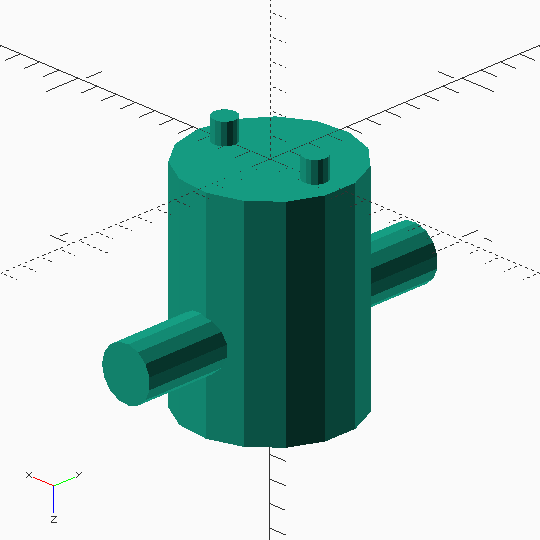
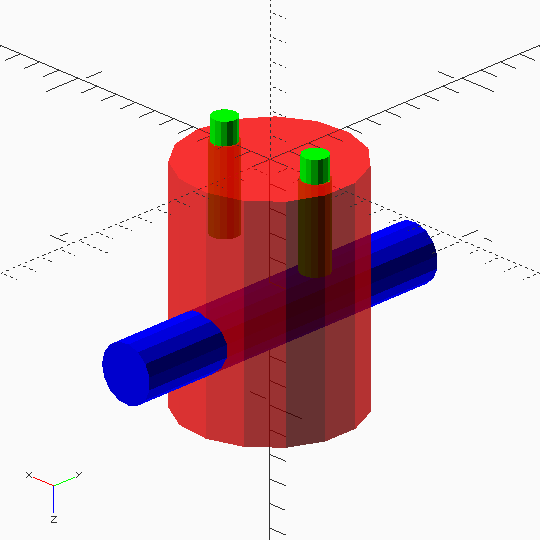
color support

Changed region(s): [[0.1778, 0.2074, 0.8296, 0.8296]]

diff --git a/examples/pin_spanner.py b/examples/pin_spanner.py
@@ -16,7 +16,7 @@ The source file can be explored interactively, or rendered to an image with:
         --colorscheme Nature \
         --view axes,scales \
         --projection o \
-        --render \
+        --preview \
         -o pin_spanner.png \
         pin_spanner.scad
 """
@@ -27,16 +27,35 @@ import solid.utils
 from sccm.components.component import Component
 from sccm.components.cylinder import Cylinder
 
-# Parent component for the whole thing
-pin_spanner = Component()
+# The main 'body' of the spanner, to which the other things attach; this is
+# made out of a stubby cylinder of aluminum
+spanner_body = Cylinder(
+    od=3 / 4,
+    length=1.0,
+    # We want to be able to see the other parts embedded inside the body, so it
+    # should be transparent
+    color=(1.0, 0.0, 0.0, 0.8),
+)
 
-# The main 'body' of the spanner, to which the other things attach
-spanner_body = Cylinder(od=3 / 4, length=1.0, parent=pin_spanner)
+# The handle of the spanner, for which we'll just use a 1/4" dowel pin
+handle = Cylinder(
+    od=1 / 4,
+    length=1.5,
+    # Cylinders are created with their height axis along Z; since we need to
+    # rotate the handle so it's perpendicular to the handle, it's most
+    # convenient to "center" it, so its center point is at the origin, rather
+    # than the default, which puts its bottom at the origin
+    center=True,
+    # We want the handle to be fully opaque, so we can omit the optional alpha
+    color=(0.0, 0.0, 1.0),
+)
 
-# The handle of the spanner
-handle = Cylinder(od=1 / 4, length=1.5, center=True, parent=pin_spanner)
+# We need to position the handle inside the body; first, rotate it about X, so
+# it's perpendicular to the handle
 handle_rotation = solid.rotate([90.0, 0.0, 0.0])
 handle.transform(handle_rotation)
+# Then, we need to move it, so it's in the same orientation but sitting at the
+# top of the body
 handle.transform(
     # The center anchor has to be transformed first, in the same manner as the
     # whole handle was, so the alignment works correctly - otherwise, the primary
@@ -44,6 +63,7 @@ handle.transform(
     # cylinder, would be aligned with that of the body's top anchor (ditto)
     handle.center_anchor.transform(handle_rotation).align(spanner_body.top_anchor)
 )
+# From there, we can move it down 3/8", so it's captured inside the body
 handle.transform(solid.utils.down(3 / 8))
 # Subtract the space occupied by the handle from the body
 spanner_body.compose(solid.difference(), handle, make_children=False)
@@ -52,14 +72,22 @@ spanner_body.compose(solid.difference(), handle, make_children=False)
 # designed to turn) is made from a 1/8" pin, but the part that engages in the
 # hole must be turned down to fit the hole's size
 protruding_pin = Cylinder(od=0.110, length=0.1)
+# The "inside" pin is the unmodified portion that sits inside the spanner body
 inside_pin = Cylinder(od=1 / 8, length=3 / 8)
-
-inside_pin.transform(inside_pin.bottom_anchor.align(spanner_body.bottom_anchor))
+# Then, we need to align the two portions of the pin model, such that
 protruding_pin.transform(protruding_pin.top_anchor.align(inside_pin.bottom_anchor))
-
 
 # There are two pins in the nut, so we make an assembly & then clone it
 pin_assembly_a = protruding_pin.compose(solid.union(), inside_pin, inplace=False)
+# Then, move the whole assembly such that the bottom of the inside pin is aligned
+# with the bottom of the spanner body. Note that while the two portions of the pin
+# have been composed into a single component, the individual portions exist, and
+# we still have access to them.
+pin_assembly_a.transform(inside_pin.bottom_anchor.align(spanner_body.bottom_anchor))
+# Not-in-place composition produces a new component (here, the pin assembly),
+# so we have to assign the desired color to it after instantiation; it will be
+# assigned to the other pin assembly during the copy operation by default
+pin_assembly_a.color = (0.0, 1.0, 0.0)
 pin_assembly_b = pin_assembly_a.copy()
 
 # The holes in the nut are .472" (12mm) apart, so the pins are located half that
@@ -70,7 +98,20 @@ pin_assemblies = [pin_assembly_a, pin_assembly_b]
 
 # Subtract the space occupied by the pins from the body
 spanner_body.compose(solid.difference(), pin_assemblies, make_children=False)
-pin_spanner.add_child(pin_assemblies)
+
+# Now, we need a parent component for the whole spanner, so we can render it.
+pin_spanner = Component(
+    # Ordering is actually significant here because of a quirk in `OpenSCAD`: if
+    # we want an object "inside" another, transparent object to be visible, it
+    # has to be drawn first. Because rendering a pure container (a component that
+    # only contains other components, and doesn't define a body of its own)
+    # automatically creates a `union` of the contained child components, with the
+    # children listed in order of their appearance in the container's `children`
+    # list, the order we specify these children here directly maps to the order
+    # with which they'll be drawn. Because the spanner body is transparent and
+    # we want to see the driving pins & handle through it, it has to be last.
+    children=[*pin_assemblies, handle, spanner_body]
+)
 
 if __name__ == "__main__":
     pin_spanner.compile("pin_spanner.scad", 15)

diff --git a/sccm/components/component.py b/sccm/components/component.py
@@ -9,6 +9,12 @@ from sccm import affinables
 Composition = typing.Union[solid.union, solid.difference, solid.intersection]
 CompositionAndOperands = typing.Tuple[Composition, typing.List["Component"]]
 
+# Colors are specified as RBG and an optional alpha channel; each channel
+# should be a value in [0.0, 1.0].
+Color = typing.Union[
+    typing.Tuple[float, float, float], typing.Tuple[float, float, float, float]
+]
+
 
 class ReparentException(Exception):
     """Raised when we attempt to assign a parent to a child that already has one"""
@@ -42,6 +48,7 @@ class Component(affinables.HistoricalTransformable):
         parent: "Component" = None,
         children: typing.List["Component"] = None,
         compositions: typing.List[CompositionAndOperands] = None,
+        color: Color = None,
     ) -> None:
         """
         Args:
@@ -50,6 +57,8 @@ class Component(affinables.HistoricalTransformable):
             children: The component's children, if any; this component will be
                 set as the children's parent
             compositions: The component's compositions, if any
+            color: The color to use for this component, if any; this will override
+                any coloring on children.
         """
         # The transformations that affect this component & its children, but not
         # its parents
@@ -68,6 +77,8 @@ class Component(affinables.HistoricalTransformable):
         self.compositions: typing.List[CompositionAndOperands] = []
         if compositions:
             self.compositions = compositions
+
+        self.color: typing.Optional[Color] = color
 
     def add_child(
         self, children: typing.Union["Component", typing.List["Component"]]
@@ -213,12 +224,14 @@ class Component(affinables.HistoricalTransformable):
         """
         return self.__class__()
 
-    def copy(self, isolate: bool = False) -> "Component":
+    def copy(self, isolate: bool = False, with_color: bool = True) -> "Component":
         """Copy this component
 
         Args:
             isolate: If true, the copied component will not retain the parent
                 relationships of the original
+            with_color: Should the copied component have the original's color,
+                if any?
         """
         copy = self._copy
 
@@ -268,6 +281,9 @@ class Component(affinables.HistoricalTransformable):
         # Copies should have identical direct transformations
         for transformation in self.direct_transformations:
             copy.transform(transformation)
+
+        if with_color:
+            copy.color = self.color
 
         return copy
 
@@ -372,7 +388,7 @@ class Component(affinables.HistoricalTransformable):
 
     @property
     def body(self) -> solid.OpenSCADObject:
-        """The fully transformed object that embodies this component
+        """The fully transformed, composed, and colored embodiment of this component
 
         Raises:
             DisembodiedComponent:
@@ -387,7 +403,7 @@ class Component(affinables.HistoricalTransformable):
         )
 
         if self._body:
-            return body_reduction(self.compositions, self._body)
+            composed_body = body_reduction(self.compositions, self._body)
         else:
             if not self.compositions:
                 raise DisembodiedComponent(self)
@@ -397,12 +413,17 @@ class Component(affinables.HistoricalTransformable):
             # composition & its operands - otherwise, there would be nothing at
             # the "root" of the compositions
             first_composition, first_operands = self.compositions[0]
-            return body_reduction(
+            composed_body = body_reduction(
                 self.compositions[1:],
                 self._apply_composition(
                     first_composition, [operand.body for operand in first_operands]
                 ),
             )
+
+        if self.color:
+            return solid.color(self.color)(composed_body)
+        else:
+            return composed_body
 
     def scad_source(self, fn: int = None) -> str:  # pragma: no cover
         """The OpenSCAD source code that this component corresponds to"""

diff --git a/tests/components/test_component.py b/tests/components/test_component.py
@@ -32,10 +32,10 @@ class MockEmbodiedComponent(component.Component):
     def _copy(self) -> "MockEmbodiedComponent":
         return self.__class__(self.size)
 
-    def __init__(self, size: float = 1.0):
+    def __init__(self, size: float = 1.0, color: component.Color = None):
         self.size = size
 
-        super().__init__()
+        super().__init__(color=color)
 
     @component.Component.transformed_property
     def _body(self) -> solid.OpenSCADObject:
@@ -470,7 +470,7 @@ class TestComponent(unittest.TestCase):
             msg="Non-isolated copied child operands should be copied and the copies made operands of the copy",
         )
 
-    def test_copy_composition_isolated_non_child_operandS(self) -> None:
+    def test_copy_composition_isolated_non_child_operands(self) -> None:
         composer_1 = MockEmbodiedComponent(2.0)
         composer_2 = MockEmbodiedComponent(3.0)
 
@@ -485,4 +485,46 @@ class TestComponent(unittest.TestCase):
                 for operand in copy.composed_components
             ),
             msg="Isolated copied non-child operands should be copied and the copies made operands of the copy",
+        )
+
+    def test_copy_with_color(self) -> None:
+        test_component = component.Component(color=(1.0, 1.0, 1.0, 1.0))
+
+        self.assertEqual(
+            test_component.color,
+            test_component.copy(with_color=True).color,
+            msg="Copying with color should make a copy with the same color",
+        )
+
+    def test_copy_without_color(self) -> None:
+        test_component = component.Component(color=(1.0, 1.0, 1.0, 1.0))
+        copy_component = test_component.copy(with_color=False)
+
+        self.assertNotEqual(
+            test_component.color,
+            copy_component.color,
+            msg="Copying without color should make a copy that doesn't have the same color",
+        )
+
+        self.assertIsNone(
+            copy_component.color, msg="The copy should have the default color"
+        )
+
+    def test_body_with_color(self) -> None:
+        color_tuple = (1.0, 0.5, 0.25, 0.125)
+
+        self.assertTrue(
+            utils.compare_flattened_openscad_children(
+                MockEmbodiedComponent(size=2.0, color=color_tuple).body,
+                solid.color(color_tuple)(solid.cube(size=2.0)),
+            ),
+            msg="Color should be applied to the body when being rendered",
+        )
+
+    def test_body_without_color(self) -> None:
+        self.assertTrue(
+            utils.compare_flattened_openscad_children(
+                MockEmbodiedComponent(size=2.0, color=None).body, solid.cube(size=2.0)
+            ),
+            msg="Colorless components' bodies should not have colors applied",
         )

diff --git a/sccm/components/cylinder.py b/sccm/components/cylinder.py
@@ -14,6 +14,7 @@ class Cylinder(component.Component):
         length: float,
         center: bool = False,
         parent: component.Component = None,
+        color: component.Color = None,
     ) -> None:
         """
         Args:
@@ -21,8 +22,11 @@ class Cylinder(component.Component):
             length: The cylinder's length
             center: Whether or not to "center" the cylinder's height on the
                 origin; if not, the bottom face will be on the XY plane
+            parent: The cylinder's parent, if any; this component will be set as
+                one of the parent's children
+            color: The color to use for this component, if any
         """
-        super().__init__(parent)
+        super().__init__(parent=parent, color=color)
 
         self.od = od
         self.length = length

diff --git a/README.md b/README.md
@@ -5,12 +5,13 @@
 workflow similar to one familiar to users of `Fusion 360` (in some ways) while
 leveraging the flexibility & power of source-code-based object definition. It
 uses `OpenSCAD` as its rendering and interactive engine: objects in `sccm` can
-be rendered to `OpenSCAD` code, which itself can be rendered visually.
+be rendered to `OpenSCAD` code, which itself can be rendered visually or explored
+interactively.
 
 <p align="center">
     <img
         src="examples/pin_spanner.png"
-        alt="Image of example pin spanner model rendering"
+        alt="Example pin spanner model rendering"
     >
 </p>
 
